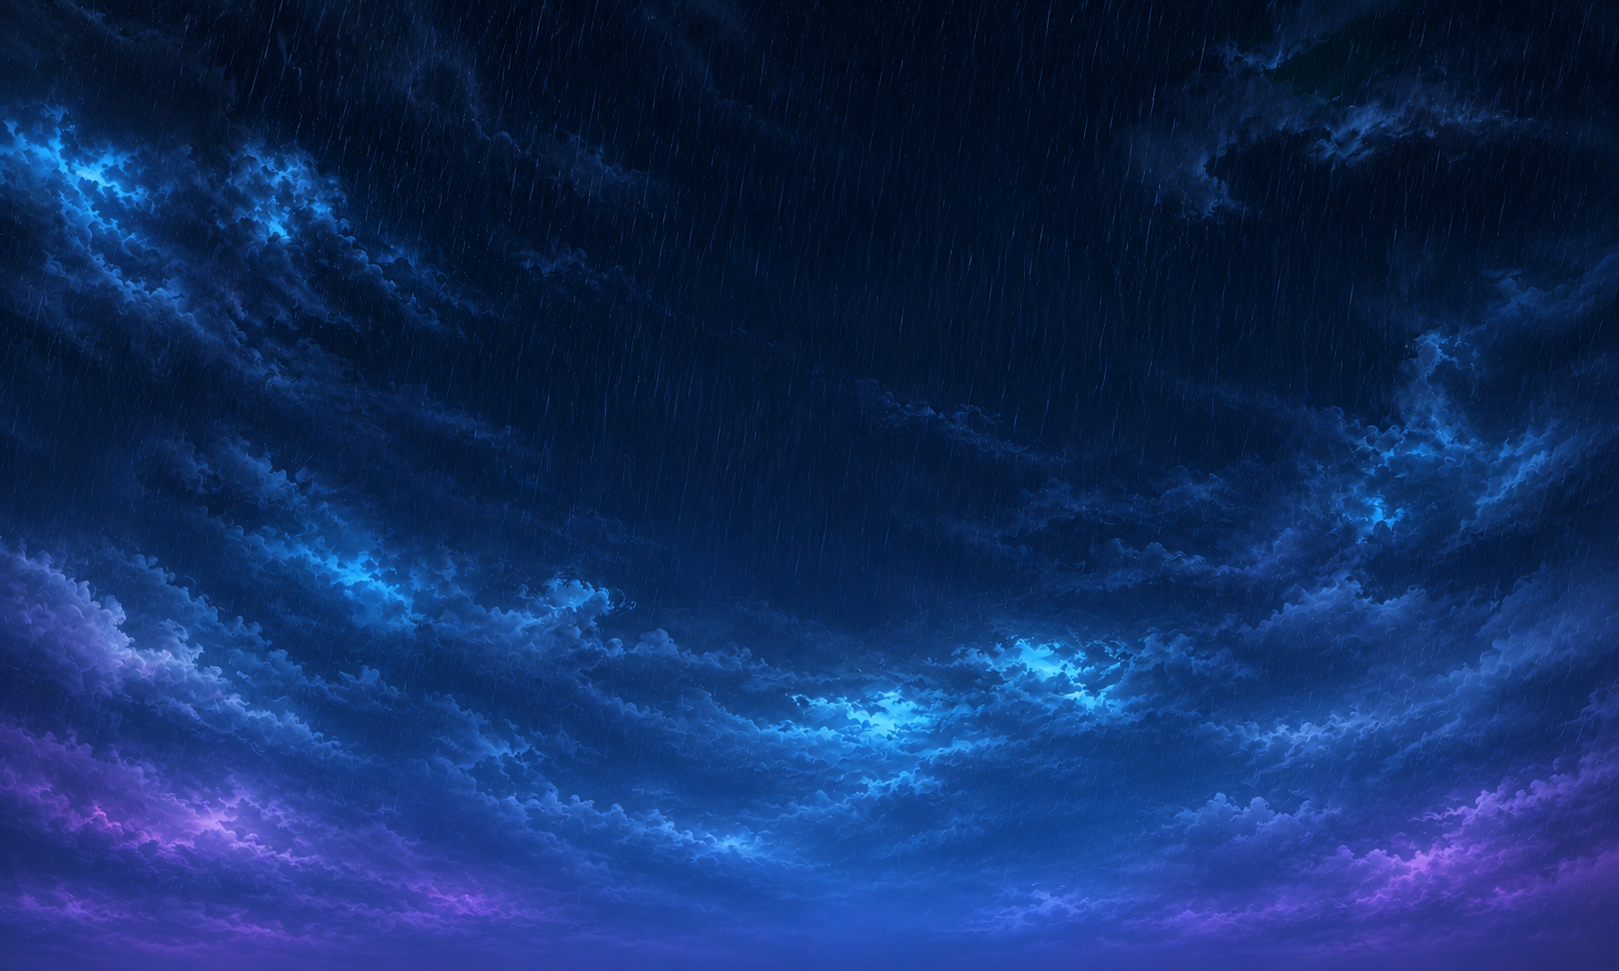
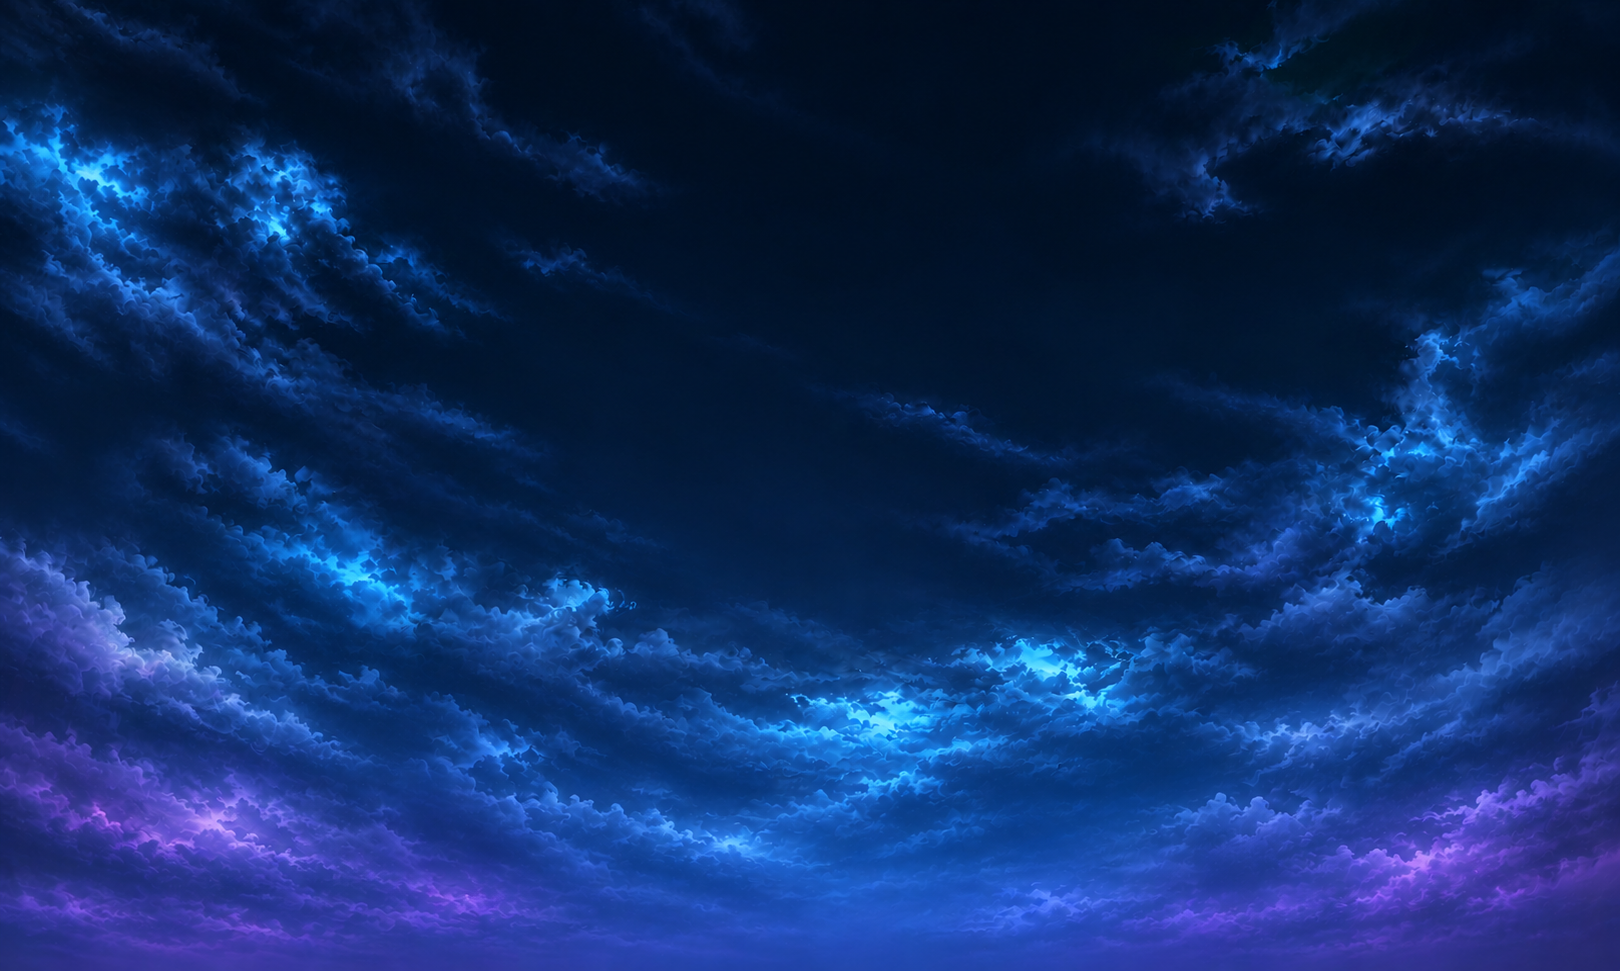
Move level 6 rain from sky painting into animated depth layers

diff --git a/docs/background-layers.md b/docs/background-layers.md
@@ -20,4 +20,6 @@ The built-in imagegen tool repainted the plates from the original paintings as v
 
 Twinkles remain registered with the slowly parallaxing sky. Passing ships, comets and debris retain their own movement. Ice Moon animates only its repainted sky behind solid scenery and freezes on pause. Retries reuse scenic nodes. Platforms, collisions, taxi, passengers and the dashboard remain independent from scenic camera offsets.
 
+Level 06 uses a rain-free `assets/backgrounds/layers/level-06/sky-v1.png`. Built-in imagegen edit prompt: "Remove ALL rain streaks; preserve the storm clouds, composition, blue/violet colors, lighting, aspect ratio and painterly texture; no new objects, stars or text." `rain_layer.gd` draws seeded falling streaks at two depths: middle rain behind near scenery and larger, faster foreground rain over the front plate. Both follow their scenery camera rates, freeze with the sector on pause, and reuse their nodes on retry. `tests/rain.gd` checks ordering, animation, pause, retries and isolation from other levels.
+
 Run `tests/run.ps1` for complete validation. `environment-layers.gd` checks camera rates, ordering, zoom, pause and transitions. `depth-extraction.gd` now validates all 20 repainted sets: visible content in every plane, real alpha, absence of broad white backdrops, direct shader-free rendering, isolated foreground transparency, and coverage at multiple camera positions. It saves full-world and close-travel previews plus a contact sheet under `.development/depth-previews/`. `window-glass.gd` checks independent Earth, glass, frame and deck treatment. `aurora.gd` checks the localized animation lifecycle.
